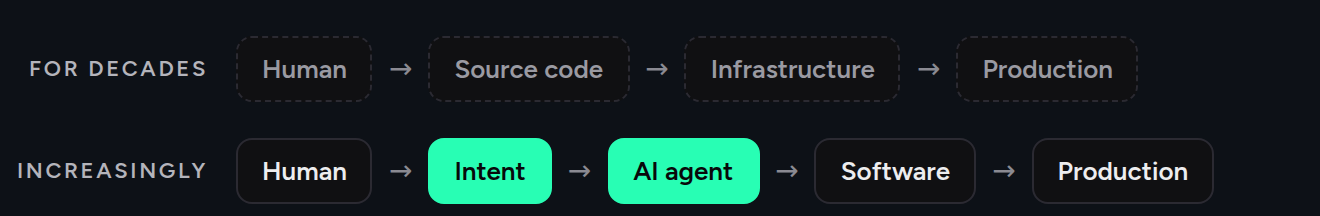
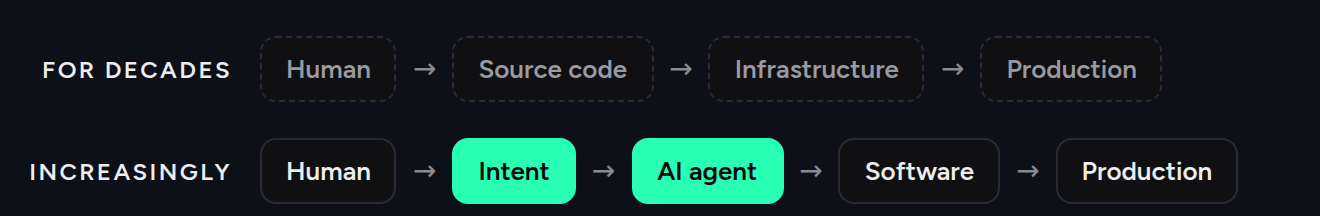
The beat marks draw, and the lane labels read as titles (#593)
* The vision lane labels read as titles, not captions

`For decades` and `Increasingly` title a whole lane each, and were the smallest
text in the set: 11px, which the narrow variant's 0.81 phone scale turns into
8.9px — under the 12px floor the rest of the diagrams hold to. Darkening them
from `dim` to `body` in #590 treated the symptom.

They are 12px in `text` now (#1F2328 against white, where they were #4A5259),
with the tracking eased from .12em to .1em so the extra size does not widen them,
and `.lane-l-row` goes 104 to 116px to fit `INCREASINGLY`. The vision diagram
grows a pixel; every other diagram is untouched.

The `promote` labels stay at 11px. They name the arrow between two stations
rather than any content and read better small, which the assets README now says
so the next pass does not "fix" them.

Claude-Session: https://claude.ai/code/session_01EvoZVi9sNowJbKd7zzzNvL

* Emit the beat marks the way the marks that render are emitted

The Android app draws every other SVG in the README — the fourteen heading
marks, the wordmark, the cubes and their animation — and did not draw these two.
The HTML GitHub emits for them is identical to the heading marks' but for the
width, so the difference is in the files or in the size.

Both were mine, and both are gone now. The paths were self-closed, `<path/>`,
where all fourteen working marks close with an end tag; a parser that does not
handle self-closing foreign-content tags takes the rest of the document with it.
[…]

diff --git a/.github/assets/diagrams/diagrams.py b/.github/assets/diagrams/diagrams.py
@@ -196,7 +196,7 @@ def vision(t):
                                ('Production', 0)], True)
     new = lane('Increasingly', [('Human', 0), ('Intent', 1), ('AI agent', 1), ('Software', 0),
                                 ('Production', 0)], False)
-    return f'<div class="d" style="width:440px;height:298px"><div class="lanes">{old}{new}</div></div>'
+    return f'<div class="d" style="width:440px;height:299px"><div class="lanes">{old}{new}</div></div>'
 
 # ================================================================ wide variants
 # Same content and type scale as the narrow set, laid out for a desktop column.
@@ -403,8 +403,8 @@ background:{t['panel']}}}
 font:500 11px 'Fira Code',monospace;letter-spacing:.04em;color:{t['muted']}}}
 {p} .lanes{{display:grid;grid-template-columns:repeat(2,minmax(0,1fr));gap:24px}}
 {p} .lane{{display:flex;flex-direction:column;gap:10px}}
-{p} .lane-l{{font:600 11px 'Figtree',sans-serif;letter-spacing:.12em;text-transform:uppercase;
-color:{t['body']}}}
+{p} .lane-l{{font:600 12px 'Figtree',sans-serif;letter-spacing:.1em;text-transform:uppercase;
+color:{t['text']}}}
 {p} .lane-c{{display:flex;flex-direction:column;align-items:center;gap:3px}}
 {p} .v-chip{{font:600 13px 'Figtree',sans-serif;color:{t['text']};border:1px solid {t['line']};
 border-radius:8px;padding:8px 12px;background:{t['chip']};width:100%;text-align:center}}
@@ -423,7 +423,7 @@ border-radius:8px;padding:8px 12px;background:{t['chip']};width:100%;text-align:
 {p} .tile-core-row{{flex-direction:row;align-items:baseline;justify-content:flex-start;gap:12px}}
 {p} .lanes-row{{display:flex;flex-direction:column;gap:18px}}
 {p} .lane-row{{flex-direction:row;align-items:center;gap:14px}}
-{p} .lane-l-row{{width:104px;flex:none;text-align:right}}
+{p} .lane-l-row{{width:116px;flex:none;text-align:right}}
 {p} .lane-r{{display:flex;align-items:center;gap:8px}}
 {p} .v-arrow{{color:{t['dim']};font-size:14px}}
 {p} .v-chip-row{{width:auto}}
@@ -440,7 +440,7 @@ SPECS = [
     ('architecture', 'Architecture',
      (architecture, 440, 785), (w_architecture, 880, 498)),
     ('vision', 'The vision',
-     (vision, 440, 298), (w_vision, 660, 108)),
+     (vision, 440, 299), (w_vision, 660, 108)),
 ]
 
 ROOT = os.path.dirname(os.path.dirname(os.path.dirname(os.path.dirname(

diff --git a/README.md b/README.md
@@ -75,13 +75,13 @@ Instead of asking developers or AI agents to manipulate infrastructure directly,
 
 # <img src=".github/assets/marks/abstraction-layer.svg" width="22" alt=""> A different abstraction layer
 
-<img src=".github/assets/marks/beat.svg" width="14" alt=""> &nbsp;Cloud providers made infrastructure available on demand.
+<img src=".github/assets/marks/beat.svg" width="16" alt=""> &nbsp;Cloud providers made infrastructure available on demand.
 
-<img src=".github/assets/marks/beat.svg" width="14" alt=""> &nbsp;Kubernetes made infrastructure orchestration programmable.
+<img src=".github/assets/marks/beat.svg" width="16" alt=""> &nbsp;Kubernetes made infrastructure orchestration programmable.
 
-<img src=".github/assets/marks/beat.svg" width="14" alt=""> &nbsp;AI coding systems are making software creation nearly free.
+<img src=".github/assets/marks/beat.svg" width="16" alt=""> &nbsp;AI coding systems are making software creation nearly free.
 
-<img src=".github/assets/marks/beat-mint.svg" width="14" alt=""> &nbsp;**Kinotic does everything in between.**
+<img src=".github/assets/marks/beat-mint.svg" width="16" alt=""> &nbsp;**Kinotic does everything in between.**
 
 <div align="center">
 

diff --git a/.github/assets/README.md b/.github/assets/README.md
@@ -73,8 +73,12 @@ carries the narrow layout and its own width as the fallback every client can ren
 ### Constraints the source respects
 
 **A 15px floor on labels, 12px on sub-labels.** At the 0.81 scale a 440px-wide diagram takes
-on a phone, those land at 12.2px and 9.8px. Anything smaller stops being readable there.
+on a phone, those land at 12.2px and 9.8px. Anything smaller stops being readable there — the
+vision lane labels sat at 11px and were the first thing anyone noticed on a phone.
 `environments` is 300px wide — under the phone's column — so it never scales at all.
+
+The `promote` labels are the deliberate exception at 11px. They name the arrow between two
+stations rather than any content, and they read better small; leave them there.
 
 **Type is the repo's own.** `diagrams.py` loads `website/public/fonts/figtree-latin.woff2`
 and `fira-code-latin.woff2` by absolute path, so the PNGs carry Figtree and Fira Code
